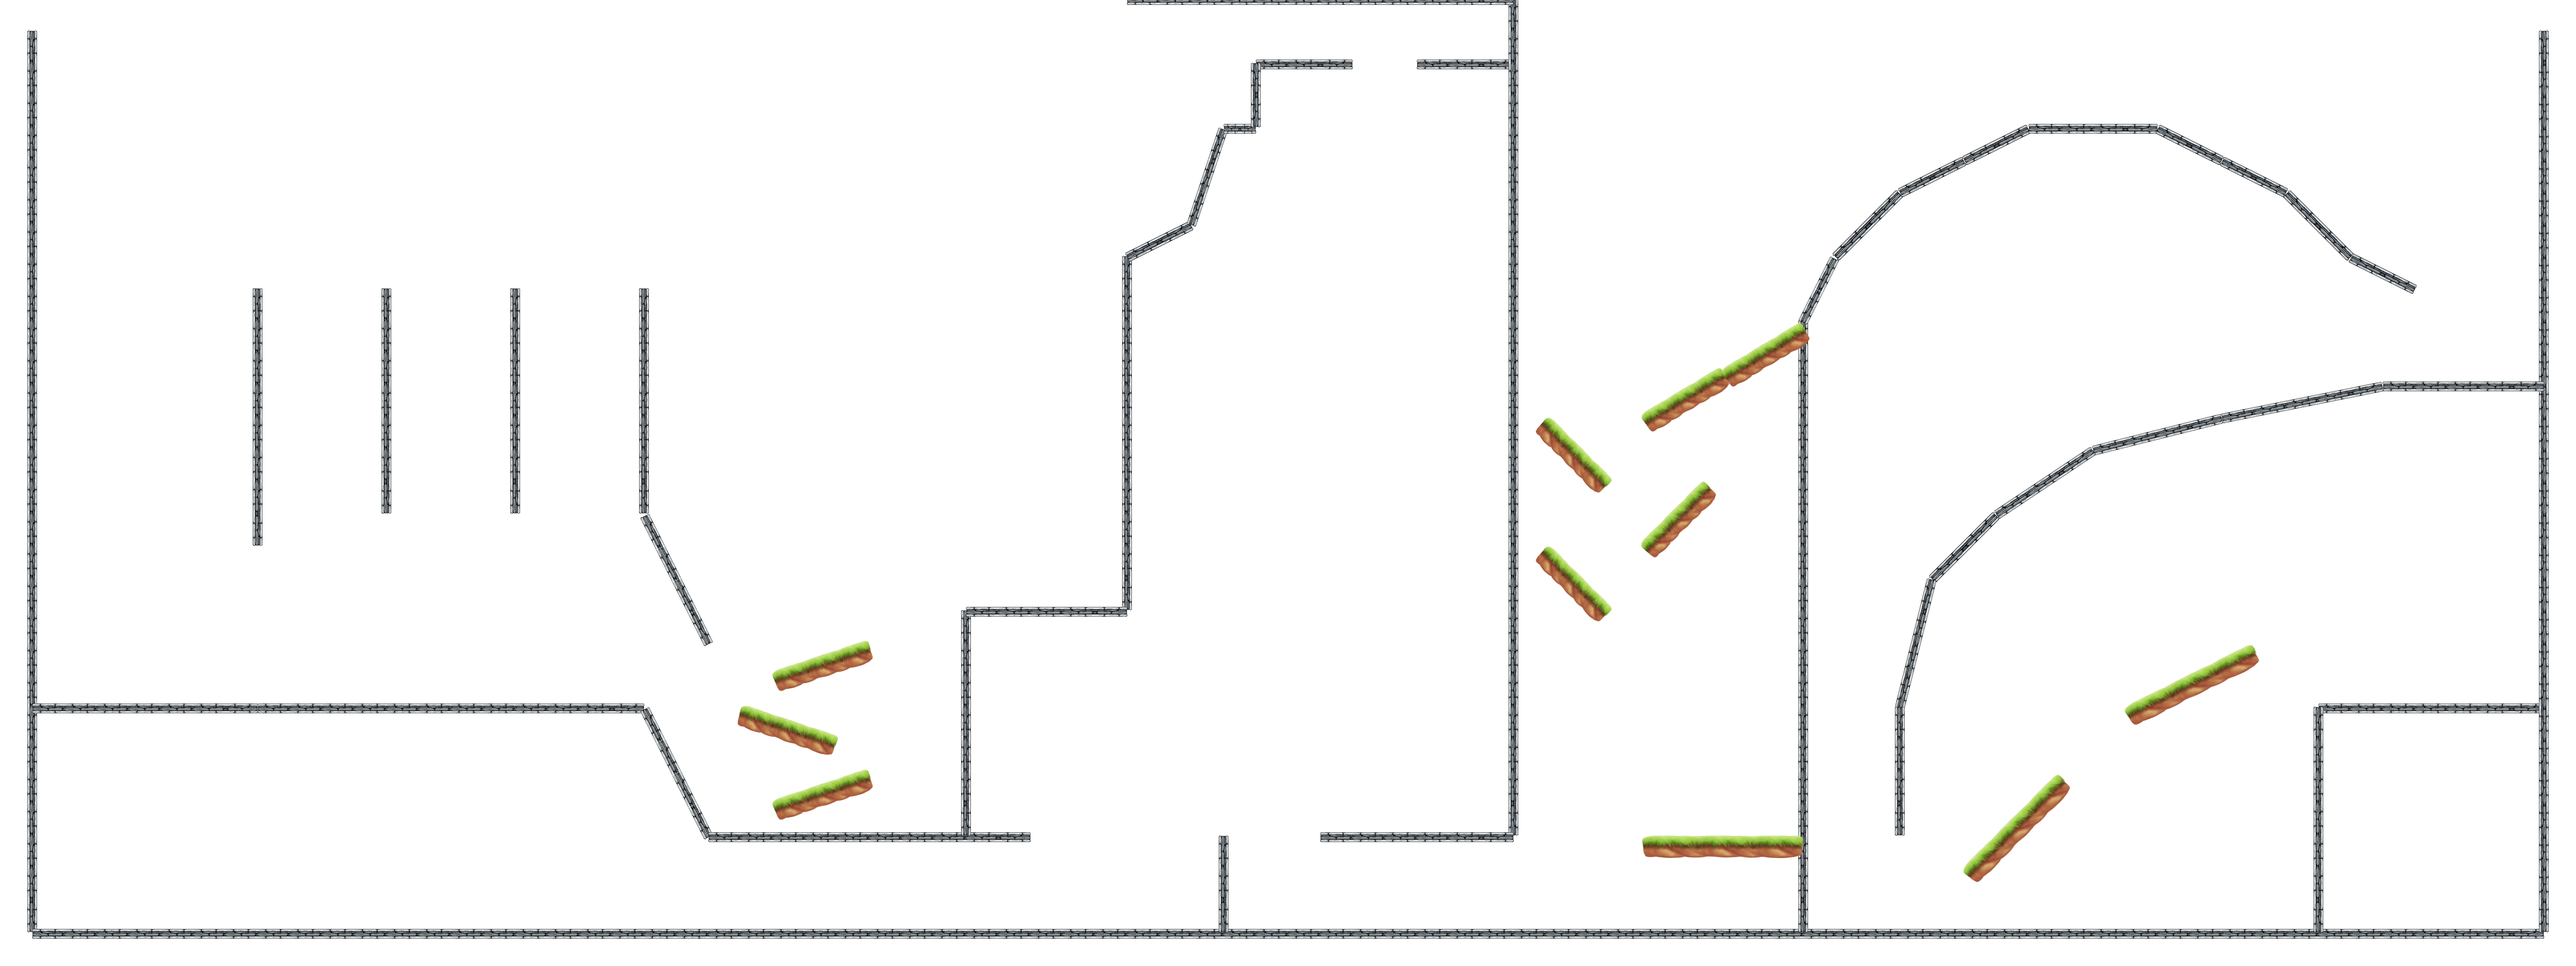
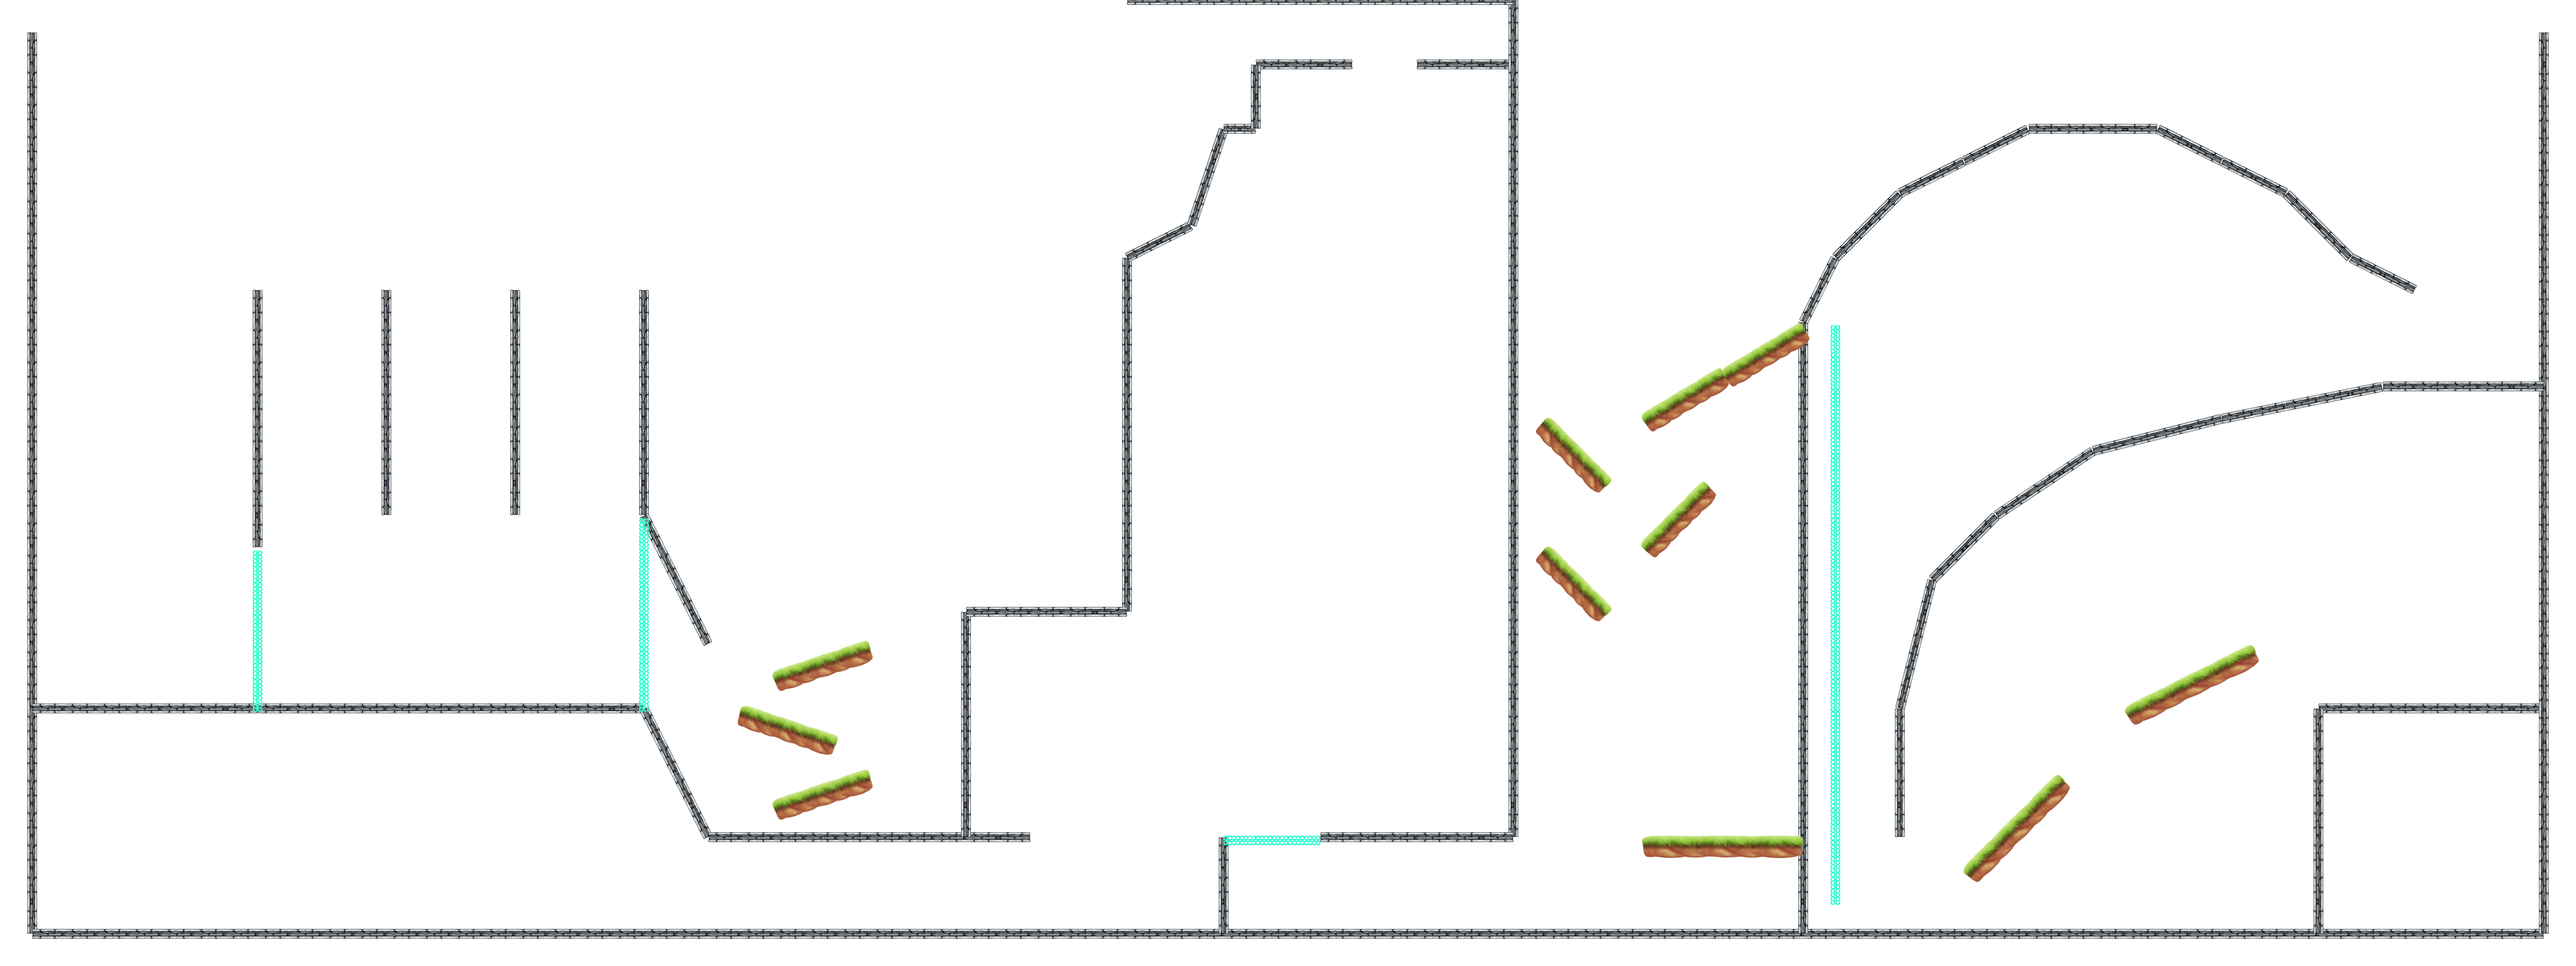
Added force fields and cleaned up hardcoded values

diff --git a/src/indigo/GameState/DesignState.java b/src/indigo/GameState/DesignState.java
@@ -259,7 +259,7 @@ public class DesignState extends GameState
 			while(mapY < 1600 || mapY > 8000);
 
 			landscapeGrid = new LandData[mapX / GRID_SCALE + 1][mapY / GRID_SCALE + 1][mapX / GRID_SCALE + 1][mapY
-					/ GRID_SCALE + 1];
+			                                                                                                  / GRID_SCALE + 1];
 			spawnsGrid = new SpawnData[mapX / GRID_SCALE + 1][mapY / GRID_SCALE + 1];
 		}
 		else
@@ -306,7 +306,7 @@ public class DesignState extends GameState
 			mapY = (int)(long)json.get("mapY");
 
 			landscapeGrid = new LandData[mapX / GRID_SCALE + 1][mapY / GRID_SCALE + 1][mapX / GRID_SCALE + 1][mapY
-					/ GRID_SCALE + 1];
+			                                                                                                  / GRID_SCALE + 1];
 			spawnsGrid = new SpawnData[mapX / GRID_SCALE + 1][mapY / GRID_SCALE + 1];
 
 			if(json.get("landscape") != null)
@@ -721,7 +721,7 @@ public class DesignState extends GameState
 				{
 					double distance = new Line2D.Double(xMargin + scale(land.x1), yMargin + scale(land.y1), xMargin
 							+ scale(land.x2), yMargin + scale(land.y2)).ptSegDist(Manager.input.mouseX(),
-							Manager.input.mouseY());
+									Manager.input.mouseY());
 					if(distance < minDistance)
 					{
 						minDistance = distance;
@@ -1242,7 +1242,7 @@ public class DesignState extends GameState
 			actionIndex = -1;
 
 			landscapeGrid = new LandData[mapX / GRID_SCALE + 1][mapY / GRID_SCALE + 1][mapX / GRID_SCALE + 1][mapY
-					/ GRID_SCALE + 1];
+			                                                                                                  / GRID_SCALE + 1];
 			spawnsGrid = new SpawnData[mapX / GRID_SCALE + 1][mapY / GRID_SCALE + 1];
 
 			playerSet = false;
@@ -1709,82 +1709,81 @@ public class DesignState extends GameState
 
 					scale = (land.length) / (centerTiles * 100 + 200);
 
-					if(land.horizontal)
+					//					if(land.horizontal)
+					//					{
+					// Draw leftmost piece
+					g.translate(x1, y1);
+					g.rotate(angle, 0, Land.THICKNESS / 2);
+					g.drawImage(ContentManager.getImage(ContentManager.STONE_TILE_LEFT),
+							(int)((-Land.THICKNESS / 2) * Math.sin(angle)),
+							(int)((-Land.THICKNESS / 2) * Math.cos(angle)), (int)(100 * (scale)), 30, null);
+					g.rotate(-angle, 0, Land.THICKNESS / 2);
+					g.translate(-x1, -y1);
+
+					// Draw center pieces, if any
+					for(int i = 1; i <= centerTiles; i++)
 					{
-						y1 -= 15;
-						// Draw leftmost piece
-						g.translate(x1, y1);
-						g.rotate(angle, 0, 15);
-						g.drawImage(ContentManager.getImage(ContentManager.STONE_TILE_LEFT), 0, 0,
-								(int)(100 * scale + 1), 30, null);
-						g.rotate(-angle, 0, 15);
-						g.translate(-x1, -y1);
-
-						// Draw center pieces, if any
-						for(int i = 1; i <= centerTiles; i++)
-						{
-							g.translate(x1 + 100 * i * scale * Math.cos(angle), y1 + 100 * i * scale * Math.sin(angle));
-							g.rotate(angle, 0, 15);
-							g.drawImage(ContentManager.getImage(ContentManager.STONE_TILE_CENTER), 0, 0,
-									(int)(100 * scale + 1), 30, null);
-							g.rotate(-angle, 0, 15);
-							g.translate(-(x1 + 100 * i * scale * Math.cos(angle)),
-									-(y1 + 100 * i * scale * Math.sin(angle)));
-						}
-
-						// Draw rightmost piece
-						g.translate(x1 + 100 * (centerTiles + 1) * scale * Math.cos(angle), y1 + 100
-								* (centerTiles + 1) * scale * Math.sin(angle));
-						g.rotate(angle, 0, 15);
-						g.drawImage(ContentManager.getImage(ContentManager.STONE_TILE_RIGHT), 0, 0,
-								(int)(100 * scale + 1), 30, null);
-						g.rotate(-angle, 0, 15);
-						g.translate(-(x1 + 100 * (centerTiles + 1) * scale * Math.cos(angle)), -(y1 + 100
-								* (centerTiles + 1) * scale * Math.sin(angle)));
-						y1 += 15;
+						g.translate(x1 + 100 * i * scale * Math.cos(angle), y1 + 100 * i * scale * Math.sin(angle));
+						g.rotate(angle, 0, Land.THICKNESS / 2);
+						g.drawImage(ContentManager.getImage(ContentManager.STONE_TILE_CENTER),
+								(int)((-Land.THICKNESS / 2) * Math.sin(angle)),
+								(int)((-Land.THICKNESS / 2) * Math.cos(angle)), (int)(100 * (scale)), 30, null);
+						g.rotate(-angle, 0, Land.THICKNESS / 2);
+						g.translate(-(x1 + 100 * i * scale * Math.cos(angle)),
+								-(y1 + 100 * i * scale * Math.sin(angle)));
 					}
-					else if(!land.horizontal)
-					{
-						int heightOffset = -5;
-						y1 += heightOffset;
-						if(Math.abs(land.slope) > 999)
-						{
-							heightOffset = 0;
-						}
-						int centerOffset = (y1 > y2)? -15 : 15;
-						// Draw top-most piece
-						g.translate(x1 + centerOffset, y1);
-						g.rotate(angle);
-						g.drawImage(ContentManager.getImage(ContentManager.STONE_TILE_LEFT), 0, 0, (int)(100 * scale),
-								30, null);
-						g.rotate(-angle);
-						g.translate(-(x1 + centerOffset), -y1);
 
-						// Draw center pieces, if any
-						for(int i = 1; i <= centerTiles; i++)
-						{
-							g.translate(x1 + centerOffset + 100 * i * scale * Math.cos(angle), y1 + 100 * i * scale
-									* Math.sin(angle));
-							g.rotate(angle);
-							g.drawImage(ContentManager.getImage(ContentManager.STONE_TILE_CENTER), 0, 0,
-									(int)(100 * scale), 30, null);
-							g.rotate(-angle);
-							g.translate(-(x1 + centerOffset + 100 * i * scale * Math.cos(angle)), -(y1 + 100 * i
-									* scale * Math.sin(angle)));
-						}
-
-						// Draw bottom-most piece
-						g.translate(x1 + centerOffset + 100 * (centerTiles + 1) * scale * Math.cos(angle), y1 + 100
-								* (centerTiles + 1) * scale * Math.sin(angle));
-						g.rotate(angle);
-						g.drawImage(ContentManager.getImage(ContentManager.STONE_TILE_RIGHT), 0, 0, (int)(100 * scale),
-								30, null);
-						g.rotate(-angle);
-						g.translate(-(x1 + centerOffset + 100 * (centerTiles + 1) * scale * Math.cos(angle)),
-								-(y1 + 100 * (centerTiles + 1) * scale * Math.sin(angle)));
-
-						y1 -= heightOffset;
-					}
+					g.translate(x1 + 100 * (centerTiles + 1) * scale * Math.cos(angle), y1 + 100 * (centerTiles + 1) * scale * Math.sin(angle));
+					g.rotate(angle, 0, Land.THICKNESS / 2);
+					g.drawImage(ContentManager.getImage(ContentManager.STONE_TILE_RIGHT),
+							(int)((-Land.THICKNESS / 2) * Math.sin(angle)),
+							(int)((-Land.THICKNESS / 2) * Math.cos(angle)), (int)(100 * (scale)), 30, null);
+					g.rotate(-angle, 0, Land.THICKNESS / 2);
+					g.translate(-(x1 + 100 * (centerTiles + 1) * scale * Math.cos(angle)),
+							-(y1 + 100 * (centerTiles + 1) * scale * Math.sin(angle)));
+					// }
+					//					else if(!land.horizontal)
+					//					{
+					//						int heightOffset = -5;
+					//						y1 += heightOffset;
+					//						if(Math.abs(land.slope) > 999)
+					//						{
+					//							heightOffset = 0;
+					//						}
+					//						int centerOffset = (y1 > y2)? -15 : 15;
+					//						// Draw top-most piece
+					//						g.translate(x1 + centerOffset, y1);
+					//						g.rotate(angle);
+					//						g.drawImage(ContentManager.getImage(ContentManager.STONE_TILE_LEFT), 0, 0, (int)(100 * scale),
+					//								30, null);
+					//						g.rotate(-angle);
+					//						g.translate(-(x1 + centerOffset), -y1);
+					//
+					//						// Draw center pieces, if any
+					//						for(int i = 1; i <= centerTiles; i++)
+					//						{
+					//							g.translate(x1 + centerOffset + 100 * i * scale * Math.cos(angle), y1 + 100 * i * scale
+					//									* Math.sin(angle));
+					//							g.rotate(angle);
+					//							g.drawImage(ContentManager.getImage(ContentManager.STONE_TILE_CENTER), 0, 0,
+					//									(int)(100 * scale), 30, null);
+					//							g.rotate(-angle);
+					//							g.translate(-(x1 + centerOffset + 100 * i * scale * Math.cos(angle)), -(y1 + 100 * i
+					//									* scale * Math.sin(angle)));
+					//						}
+					//
+					//						// Draw bottom-most piece
+					//						g.translate(x1 + centerOffset + 100 * (centerTiles + 1) * scale * Math.cos(angle), y1 + 100
+					//								* (centerTiles + 1) * scale * Math.sin(angle));
+					//						g.rotate(angle);
+					//						g.drawImage(ContentManager.getImage(ContentManager.STONE_TILE_RIGHT), 0, 0, (int)(100 * scale),
+					//								30, null);
+					//						g.rotate(-angle);
+					//						g.translate(-(x1 + centerOffset + 100 * (centerTiles + 1) * scale * Math.cos(angle)),
+					//								-(y1 + 100 * (centerTiles + 1) * scale * Math.sin(angle)));
+					//
+					//						y1 -= heightOffset;
+					//					}
 				}
 
 				// TODO Temporary
@@ -1843,6 +1842,45 @@ public class DesignState extends GameState
 						g.translate(-(x1 + 290 * i * scale * Math.cos(angle)),
 								-(y1 + 290 * i * scale * Math.sin(angle)));
 					}
+				}
+			}
+			// Draw force fields
+			for(LandData land : landscape)
+			{
+				if(land.type.equals("Force Field"))
+				{
+					int x1 = (int)land.x1;
+					int y1 = (int)land.y1;
+					int x2 = (int)land.x2;
+					int y2 = (int)land.y2;
+					double angle = Math.atan(land.slope);
+					double scale = 0;
+					if(x2 < x1)
+					{
+						int temp = 0;
+						temp = x2;
+						x2 = x1;
+						x1 = temp;
+						temp = y2;
+						y2 = y1;
+						y1 = temp;
+					}
+					int tiles = 0;
+					tiles = (int)((land.length) / 100);
+					tiles = Math.max(1, tiles); // Ensures at least one tile
+					scale = (land.length) / (tiles * 100);
+					for(int i = 0; i < tiles; i++)
+					{
+						g.translate(x1 + 100 * i * scale * Math.cos(angle), y1 + 100 * i * scale * Math.sin(angle));
+						g.rotate(angle, 0, Land.THICKNESS / 2);
+						g.drawImage(ContentManager.getImage(ContentManager.FORCE_FIELD),
+								(int)((-Land.THICKNESS / 2) * Math.sin(angle)),
+								(int)((-Land.THICKNESS / 2) * Math.cos(angle)), (int)(100 * (scale)), 30, null);
+						g.rotate(-angle, 0, Land.THICKNESS / 2);
+						g.translate(-(x1 + 100 * i * scale * Math.cos(angle)),
+								-(y1 + 100 * i * scale * Math.sin(angle)));
+					}
+					// g.drawLine(x1, y1, x2, y2);
 				}
 			}
 		}

diff --git a/src/indigo/Manager/ContentManager.java b/src/indigo/Manager/ContentManager.java
@@ -33,6 +33,7 @@ public class ContentManager
 	public static ImageData CURSOR = new ImageData("/images/cursor/crosshair.png", 32, 32);
 
 	// Elements
+	public static ImageData FORCE_FIELD = new ImageData("/images/elements/force_field.png", 100, 30);
 	public static ImageData PLATFORM = new ImageData("/images/elements/platform.png", 290, 70);
 	public static ImageData STONE_TILE_LEFT = new ImageData("/images/elements/stone_tile_left.png", 100, 30);
 	public static ImageData STONE_TILE_CENTER = new ImageData("/images/elements/stone_tile_center.png", 100, 30);
